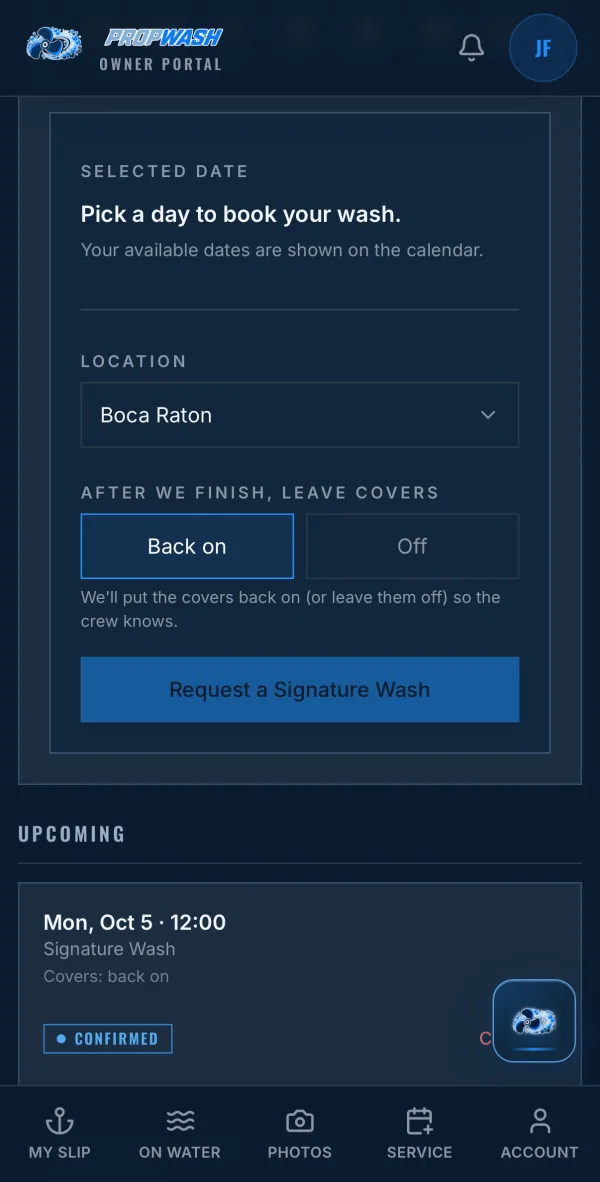
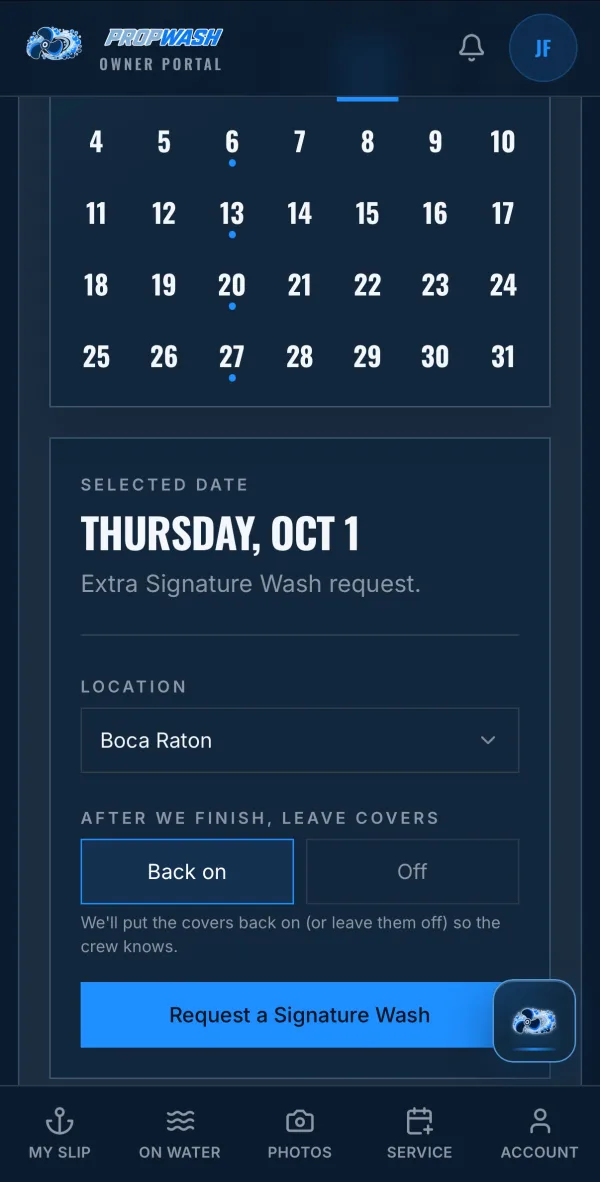
Give each portal phone one heading and one sentence
- New captions: My Slip, Next visit, On the water, Book a wash, Your
  plan, Invoices & payments, each with one sentence (approved copy).
- Removes the "Add interior care" block, the "Covers on or off"
  heading and its sentences, the earlier per-phone captions, and the
  eyebrow labels, phone 1's included (approved removals).
- Replaces the Book a wash screenshot with IMG_1536: a Safari capture
  with no white band, so the browser chrome (rows 0-245) is cropped to
  start at the portal header, exported at 600x1182 WebP (31 KB), with
  new alt text.

diff --git a/src/v4-template.html b/src/v4-template.html
@@ -410,9 +410,6 @@ html{color-scheme:dark}
 /* ===== Owner Portal: phone carousel with CSS iPhone frames ===== */
 #pw-redesign-v3 .pw-portal{display:block;background:#12263C;border-top:1px solid var(--pw-line);border-bottom:1px solid var(--pw-line)}
 #pw-redesign-v3 .pw-portal .pw-portalcopy{max-width:640px}
-#pw-redesign-v3 .pw-portal-extra{margin-top:26px;padding-top:22px;border-top:1px solid var(--pw-line)}
-#pw-redesign-v3 .pw-portal-extra h3{margin:8px 0;font-size:20px}
-#pw-redesign-v3 .pw-portal-extra p{color:#B9C8D8;font-size:13px;line-height:1.75}
 #pw-redesign-v3 .pw-phones{display:grid;grid-auto-flow:column;grid-auto-columns:minmax(210px,232px);gap:24px;padding:6px 6px 32px;margin:0;overflow-x:auto;overscroll-behavior-x:contain;scroll-snap-type:x mandatory;scroll-padding-left:6px;scrollbar-color:#425268 transparent;scrollbar-width:thin}
 #pw-redesign-v3 .pw-phone{margin:0;min-width:0;scroll-snap-align:start;container-type:inline-size;transition:transform var(--dur-hover) var(--ease-soft)}
 #pw-redesign-v3 .pw-phone:hover{transform:translateY(-2px)}
@@ -424,8 +421,7 @@ html{color-scheme:dark}
 #pw-redesign-v3 .pw-display::before{content:'';position:absolute;z-index:1;top:2.4%;left:50%;width:31%;aspect-ratio:3.4/1;border-radius:999px;background:#000;transform:translateX(-50%)}
 #pw-redesign-v3 .pw-display img{position:absolute;left:0;bottom:0;display:block;width:100%;height:auto}
 #pw-redesign-v3 .pw-phone figcaption{margin-top:18px}
-#pw-redesign-v3 .pw-phone figcaption .pw-eyebrow{color:#A4B1C0}
-#pw-redesign-v3 .pw-phone h3{margin:8px 0;font-size:20px}
+#pw-redesign-v3 .pw-phone h3{margin:0 0 6px;font-size:20px}
 #pw-redesign-v3 .pw-phone p{color:#B9C8D8;font-size:13px;line-height:1.75}
 @media (prefers-reduced-motion:reduce){#pw-redesign-v3 .pw-phone:hover{transform:none}}
 /* Desktop: no carousel. 3x2 grid of phones; two columns (copy left, phones right) from 1100px */
@@ -546,14 +542,14 @@ html{color-scheme:dark}
       <a class="pw-textlink pw-results-more" href="/gallery/">See the gallery <span class="pw-arrow" aria-hidden="true"></span></a>
     </section>
     <section id="pw-portal" class="pw-portal pw-section pw-wrap">
-  <div class="pw-portalcopy"><div class="pw-kicker pw-eyebrow pw-muted">04 / Your actual Owner Portal</div><h2>Your boat.<br> Your Slip.<br> All right here.</h2><p>Your boat's condition, photos, service history and payments in one place.</p><p class="pw-portalstory">Use My Slip before and after a service. Add access notes, choose how the covers are left, request interior care, approve work and keep every visit tied to the boat.</p><button id="pw-dashboard-expand" type="button" class="pw-textlink" aria-expanded="false" hidden>Take a closer look </button><div class="pw-portal-extra"><span class="pw-eyebrow">Add interior care</span><h3>Bring the inside into the request.</h3><p>Request interior cleaning when the boat needs attention below deck.</p></div></div>
+  <div class="pw-portalcopy"><div class="pw-kicker pw-eyebrow pw-muted">04 / Your actual Owner Portal</div><h2>Your boat.<br> Your Slip.<br> All right here.</h2><p>Your boat's condition, photos, service history and payments in one place.</p><p class="pw-portalstory">Use My Slip before and after a service. Add access notes, choose how the covers are left, request interior care, approve work and keep every visit tied to the boat.</p><button id="pw-dashboard-expand" type="button" class="pw-textlink" aria-expanded="false" hidden>Take a closer look </button></div>
   <div class="pw-phones" id="pw-phones" role="list" aria-label="Owner Portal screens">
-      <figure class="pw-phone" role="listitem"><div class="pw-device"><div class="pw-display"><img src="assets/portal/portal-1-slip.webp" width="600" height="1182" alt="Owner Portal My Slip screen: a welcome-back greeting, the boat card for a 43-foot Mag Bay named Salty Dog, a notifications row and a protection status ring counting down to the next visit." loading="lazy" decoding="async"></div></div><figcaption><span class="pw-eyebrow">MY SLIP / OWNER PORTAL · Current dashboard</span><h3>My Slip</h3><p>Your real service history, visit photos and payments in one place.</p></figcaption></figure>
-      <figure class="pw-phone" role="listitem"><div class="pw-device"><div class="pw-display"><img src="assets/portal/portal-2-next-visit.webp" width="600" height="1182" alt="My Slip screen scrolled down: a scheduled Signature Wash on Tuesday, Oct 6 at 12:00 PM with a Move link, a Report a Spot button, a row of latest visit photos and the service log." loading="lazy" decoding="async"></div></div><figcaption><span class="pw-eyebrow">Next visit</span><h3>See the work after every visit.</h3></figcaption></figure>
-      <figure class="pw-phone" role="listitem"><div class="pw-device"><div class="pw-display"><img src="assets/portal/portal-3-on-the-water.webp" width="600" height="1182" alt="On Water screen: current conditions of 82°F and overcast with wind, seas, water temperature and chance of rain, followed by boating day scores for the coming days." loading="lazy" decoding="async"></div></div><figcaption><span class="pw-eyebrow">On the water</span><h3>Know the conditions before you leave the dock.</h3></figcaption></figure>
-      <figure class="pw-phone" role="listitem"><div class="pw-device"><div class="pw-display"><img src="assets/portal/portal-4-book-wash.webp" width="600" height="1182" alt="Booking screen for a wash: location set to Boca Raton, a choice to leave the covers back on or off, a Request a Signature Wash button and an upcoming confirmed visit." loading="lazy" decoding="async"></div></div><figcaption><span class="pw-eyebrow">Service preference</span><h3>Covers on or off. You choose.</h3><p>Tell us how you want the covers left when the service is complete. Request the care your boat needs. Tell us exactly how you want the boat left.</p></figcaption></figure>
-      <figure class="pw-phone" role="listitem"><div class="pw-device"><div class="pw-display"><img src="assets/portal/portal-5-membership.webp" width="600" height="1182" alt="Membership screen headed Choose your level, we&#x27;ll handle the rest, showing an active Platinum membership for a 43-foot boat, a Change Plan button and the start of the what&#x27;s-included list." loading="lazy" decoding="async"></div></div><figcaption><span class="pw-eyebrow">Membership</span><h3>Your plan and everything it covers.</h3></figcaption></figure>
-      <figure class="pw-phone" role="listitem"><div class="pw-device"><div class="pw-display"><img src="assets/portal/portal-6-invoice.webp" width="600" height="1182" alt="Invoice screen: invoice PWM-1006 marked paid, with a Back to payments link, the Propwash Marine Detailing header with Boca Raton contact details, and the bill-to and vessel details." loading="lazy" decoding="async"></div></div><figcaption><span class="pw-eyebrow">Invoices</span><h3>Keep service records and invoices together.</h3></figcaption></figure>
+      <figure class="pw-phone" role="listitem"><div class="pw-device"><div class="pw-display"><img src="assets/portal/portal-1-slip.webp" width="600" height="1182" alt="Owner Portal My Slip screen: a welcome-back greeting, the boat card for a 43-foot Mag Bay named Salty Dog, a notifications row and a protection status ring counting down to the next visit." loading="lazy" decoding="async"></div></div><figcaption><h3>My Slip</h3><p>Your boat's status, next visit and protection at a glance.</p></figcaption></figure>
+      <figure class="pw-phone" role="listitem"><div class="pw-device"><div class="pw-display"><img src="assets/portal/portal-2-next-visit.webp" width="600" height="1182" alt="My Slip screen scrolled down: a scheduled Signature Wash on Tuesday, Oct 6 at 12:00 PM with a Move link, a Report a Spot button, a row of latest visit photos and the service log." loading="lazy" decoding="async"></div></div><figcaption><h3>Next visit</h3><p>See what's scheduled and the latest photos from each visit.</p></figcaption></figure>
+      <figure class="pw-phone" role="listitem"><div class="pw-device"><div class="pw-display"><img src="assets/portal/portal-3-on-the-water.webp" width="600" height="1182" alt="On Water screen: current conditions of 82°F and overcast with wind, seas, water temperature and chance of rain, followed by boating day scores for the coming days." loading="lazy" decoding="async"></div></div><figcaption><h3>On the water</h3><p>Wind, seas and day scores before you leave the dock.</p></figcaption></figure>
+      <figure class="pw-phone" role="listitem"><div class="pw-device"><div class="pw-display"><img src="assets/portal/portal-4-book-wash.webp" width="600" height="1182" alt="Book a wash screen: a month calendar with available days marked, Thursday, Oct 1 selected for an extra Signature Wash request, location set to Boca Raton, a choice to leave the covers back on or off, and a Request a Signature Wash button." loading="lazy" decoding="async"></div></div><figcaption><h3>Book a wash</h3><p>Pick a day and request the time that works for you.</p></figcaption></figure>
+      <figure class="pw-phone" role="listitem"><div class="pw-device"><div class="pw-display"><img src="assets/portal/portal-5-membership.webp" width="600" height="1182" alt="Membership screen headed Choose your level, we&#x27;ll handle the rest, showing an active Platinum membership for a 43-foot boat, a Change Plan button and the start of the what&#x27;s-included list." loading="lazy" decoding="async"></div></div><figcaption><h3>Your plan</h3><p>Your membership and everything it covers.</p></figcaption></figure>
+      <figure class="pw-phone" role="listitem"><div class="pw-device"><div class="pw-display"><img src="assets/portal/portal-6-invoice.webp" width="600" height="1182" alt="Invoice screen: invoice PWM-1006 marked paid, with a Back to payments link, the Propwash Marine Detailing header with Boca Raton contact details, and the bill-to and vessel details." loading="lazy" decoding="async"></div></div><figcaption><h3>Invoices &amp; payments</h3><p>View and pay invoices right in the portal, with every receipt kept on file.</p></figcaption></figure>
   </div>
 </section>
     <section id="pw-membership" class="pw-membership pw-section pw-wrap">

diff --git a/DESIGN.md b/DESIGN.md
@@ -255,7 +255,7 @@ Six real portal screenshots (`assets/portal/portal-1…6-*.webp`, 600×1182, whi
 cropped). From 1100px the section is two columns: copy left, all six phones right in a 3×2
 grid that fills the column. From 701px to 1099px the same 3×2 grid sits under the copy. There
 is no carousel on desktop. Below 700px the phones are a swipe row with the next one peeking in.
-Each phone has one heading and one sentence.
+Each phone has one heading and one sentence (My Slip, Next visit, On the water, Book a wash, Your plan, Invoices & payments). portal-4 is IMG_1536 (a Safari capture: the browser chrome, rows 0–245, is cropped like the others' white band).
 
 ### Phone frame (device mockup)
 Drawn in CSS only, no image files: a 1.5px metallic edge (gradient border-box from `#A4B1C0`
